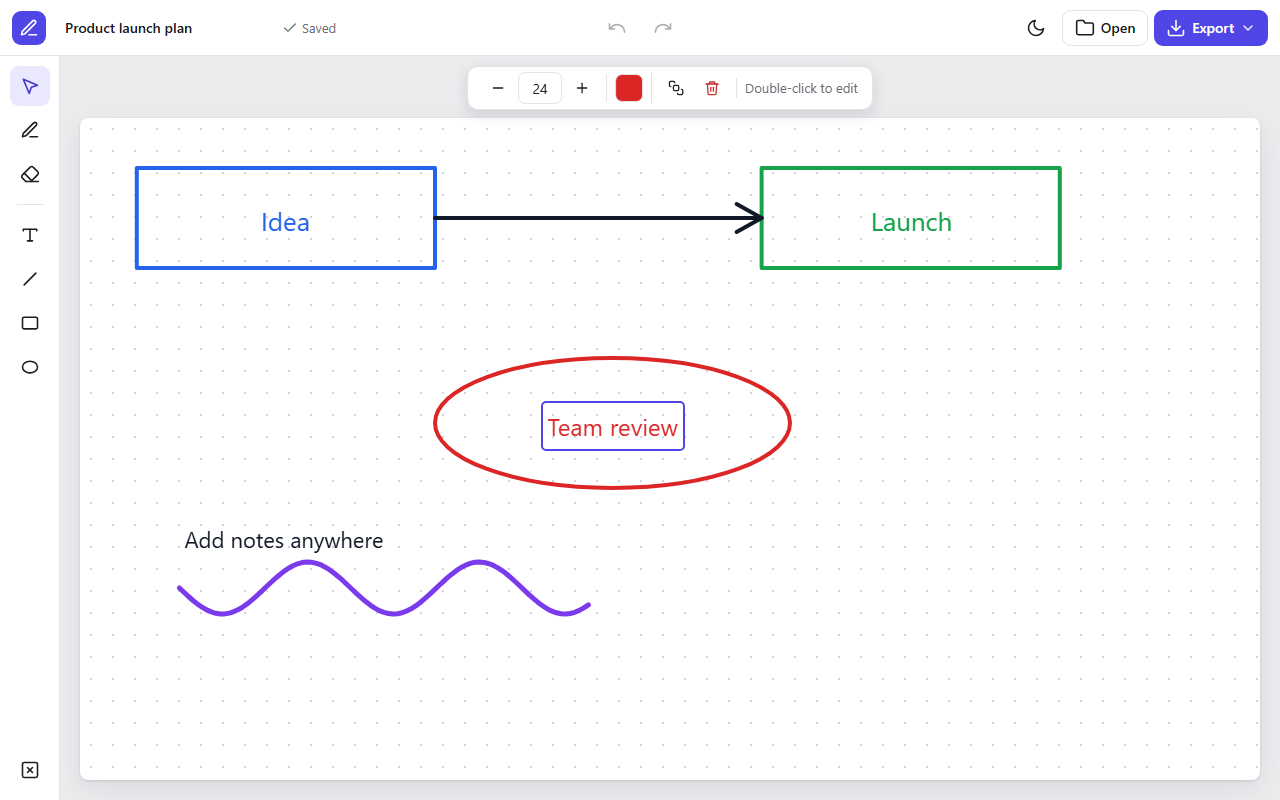
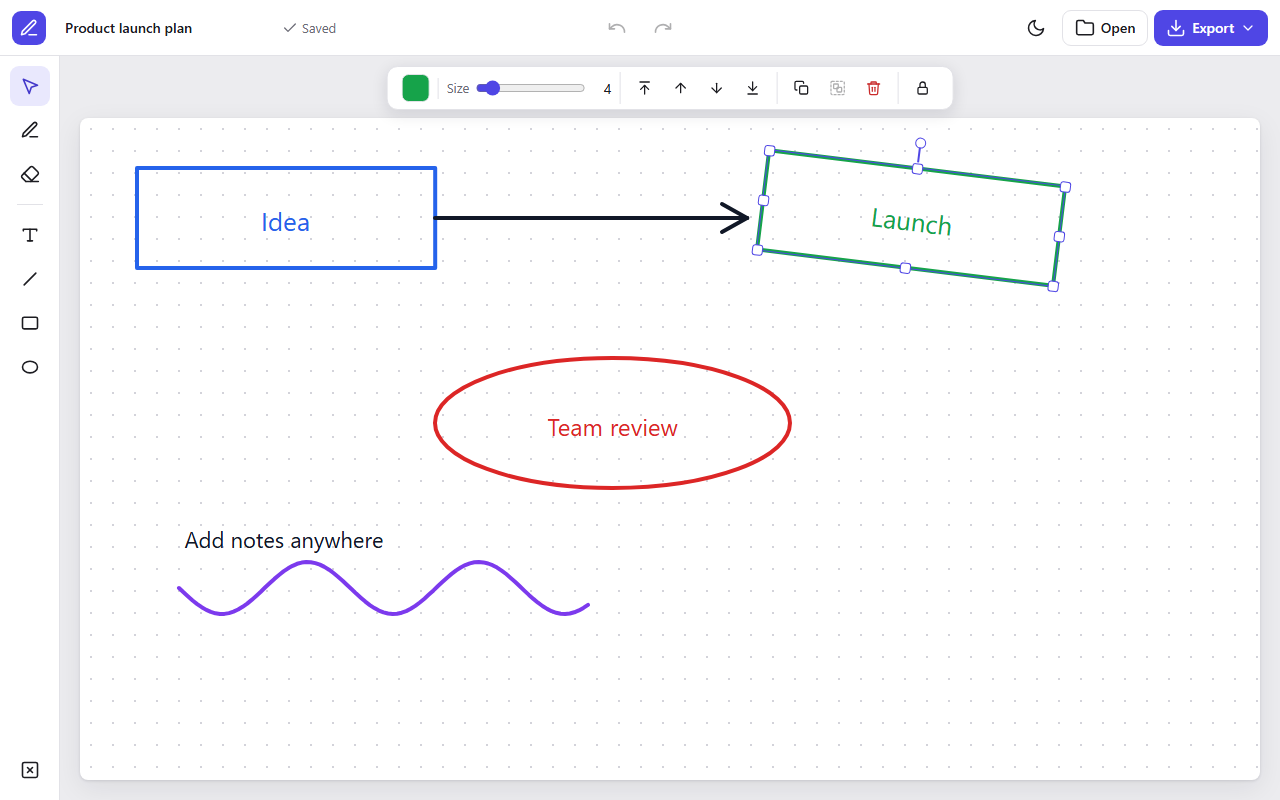
Update README for object editing

diff --git a/README.md b/README.md
@@ -19,9 +19,13 @@ A whiteboard that runs entirely in the browser. Sketch with a pen or shapes, pla
 - **Named boards:** give the board a name and exported files use it
 - **Drawing tools:** pen, line, rectangle and ellipse, with a colour picker and brush size
 - **Eraser:** removes any stroke or shape it touches
-- **Text boxes:** drag them anywhere, double-click to edit, and set size and colour per box
-- **Layering:** bring a text box to the front
-- **Undo and redo:** up to 100 steps, covering drawing, moving, typing and styling
+- **Text:** double-click to edit, drag a corner to scale it, or drag a side to set where it wraps
+- **Direct editing:** click anything to move, resize or rotate it with handles
+- **Multiple selection:** drag across the board or Shift-click to work on several objects at once
+- **Groups and locks:** group objects so they move together, and lock anything you don't want disturbed
+- **Layers:** move any object forward, backward, to the front or to the back
+- **Duplicate, copy and paste:** works on single objects and whole groups
+- **Undo and redo:** up to 100 steps, covering every change to the board
 - **Autosave:** the board is restored when you come back, using your browser's local storage
 - **Export and open:** save the board as a PNG image, or as a JSON file you can open again later
 - **Mouse and touch:** works with a mouse, a stylus or a finger, on phones as well as large screens
@@ -32,7 +36,15 @@ A whiteboard that runs entirely in the browser. Sketch with a pen or shapes, pla
 |---|---|
 | <kbd>Ctrl</kbd> + <kbd>Z</kbd> | Undo |
 | <kbd>Ctrl</kbd> + <kbd>Y</kbd> or <kbd>Ctrl</kbd> + <kbd>Shift</kbd> + <kbd>Z</kbd> | Redo |
-| <kbd>Delete</kbd> or <kbd>Backspace</kbd> | Delete the selected text box |
+| <kbd>Ctrl</kbd> + <kbd>C</kbd> / <kbd>X</kbd> / <kbd>V</kbd> | Copy, cut, paste |
+| <kbd>Ctrl</kbd> + <kbd>D</kbd> | Duplicate |
+| <kbd>Ctrl</kbd> + <kbd>A</kbd> | Select everything that isn't locked |
+| <kbd>Ctrl</kbd> + <kbd>G</kbd> | Group |
+| <kbd>Ctrl</kbd> + <kbd>Shift</kbd> + <kbd>G</kbd> | Ungroup |
+| <kbd>Ctrl</kbd> + <kbd>]</kbd> / <kbd>[</kbd> | Bring to front, send to back |
+| <kbd>Shift</kbd> while resizing | Keep proportions |
+| <kbd>Shift</kbd> while rotating | Snap to 15° steps |
+| <kbd>Delete</kbd> or <kbd>Backspace</kbd> | Delete the selection |
 | <kbd>Esc</kbd> | Finish editing, or deselect |
 
 ## Run it
@@ -47,15 +59,15 @@ Then visit http://localhost:8000. There's no build step and nothing to install, 
 
 ## How it works
 
-The board is stored as plain data: a list of text boxes and a list of drawings. Everything on screen is drawn from that data, with drawings on a `<canvas>` and text boxes as elements layered above it. Each change saves a snapshot of the data, which is what powers undo, redo, autosave and JSON export.
+The board is stored as plain data: one list of objects, ordered from back to front. Each object is drawn as its own element, using SVG for shapes and HTML for text, so the browser handles clicking on the exact stroke. Each change saves a snapshot of the list, which is what powers undo, redo, autosave and JSON export.
 
 ## Project structure
 
 ```
 Interactive-white-board/
-├── index.html    # Editor layout, icons, canvas and text layer
+├── index.html    # Editor layout, icons and selection handles
 ├── style.css     # Themes, editor layout and responsive rules
-├── script.js     # Board data, drawing, text boxes, undo and saving
+├── script.js     # Board data, editing, undo and saving
 └── docs/         # Screenshot for this README
 ```
 
